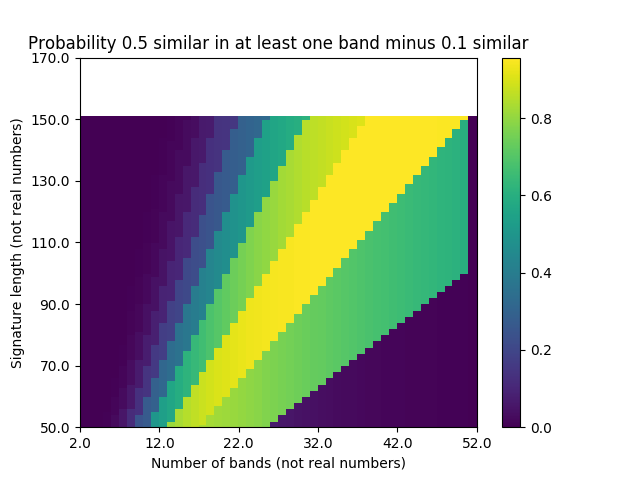
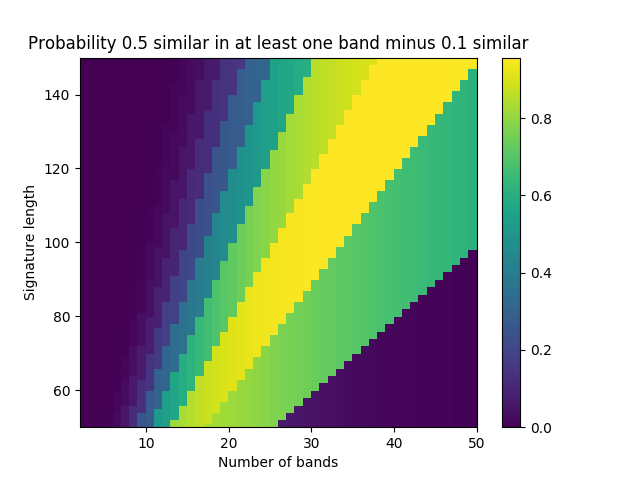
fixed colormesh showing right axes

diff --git a/assignment3/statistics.py b/assignment3/statistics.py
@@ -40,7 +40,7 @@ print ('Probability U1, U2 are identical in AT LEAST two bands')
 print (users_identical_in_ATLEAST_two_bands(similarity,signature_length,num_bands))
 
 
-def calc_probabilities(similarity1, similarity2):
+def calc_probabilities_minus(similarity1, similarity2):
 	
 	assert similarity1 > similarity2
 
@@ -57,26 +57,75 @@ def calc_probabilities(similarity1, similarity2):
 
 	return probabilities1, probabilities2
 
-probabilities1, probabilities2 = calc_probabilities(0.5,0.1)
+def calc_minus_probabilities():
+	# Calculates (the prob we find U1,U2 in at least 1(and 2) bands 
+	# as function of signature length and number of bands
+	# assuming U1,U2 are 50 percent similar)
+	# minus ( the prob we find U1,U2 in at least 1(and 2) bands 
+	# as function of signature length and number of bands
+	# assuming U1,U2 are 10 percent similar))
 
-plt.pcolor(probabilities1)
-plt.title('Probability 0.5 similar in at least one band minus 0.1 similar')
-plt.colorbar()
-plt.xlabel('Number of bands (not real numbers)')
-plt.ylabel('Signature length (not real numbers)')
-plt.xticks(plt.xticks()[0],plt.xticks()[0]+2)
-plt.yticks(plt.yticks()[0],plt.yticks()[0]+50)
-plt.savefig('./probabilities1_05minus01')
-plt.show()
-plt.close()
+	probabilities1, probabilities2 = calc_probabilities_minus(0.5,0.1)
 
-plt.pcolor(probabilities2)
-plt.title('Probability similar in at least two band')
-plt.colorbar()
-plt.xlabel('Number of bands (not real numbers)')
-plt.ylabel('Signature length (not real numbers)')
-plt.xticks(plt.xticks()[0],plt.xticks()[0]+2)
-plt.yticks(plt.yticks()[0],plt.yticks()[0]+50)
-plt.savefig('./probabilities2_05minus01')
-plt.show()
-plt.close()
+	x = range(2,51)
+	y = range(50,151)
+	# x and y are bounds, so z should be the value *inside* those bounds.
+	# Therefore, remove the last value from the z array.
+	plt.pcolor(x, y, probabilities1[:-1,:-1])
+	plt.title('Probability 0.5 similar in at least one band minus 0.1 similar')
+	plt.colorbar()
+	plt.xlabel('Number of bands')
+	plt.ylabel('Signature length')
+	plt.savefig('./probabilities1_05minus01')
+	plt.show()
+	plt.close()
+
+	plt.pcolor(x, y, probabilities2[:-1,:-1])
+	plt.title('Probability similar in at least two band')
+	plt.colorbar()
+	plt.xlabel('Number of bands (not real numbers)')
+	plt.ylabel('Signature length (not real numbers)')
+	plt.savefig('./probabilities2_05minus01')
+	plt.show()
+	plt.close()
+
+calc_minus_probabilities()
+
+def calc_probabilities():	
+	# Calculates (the prob we find U1,U2 in at least 1(and 2) bands 
+	# as function of signature length and number of bands
+	# assuming U1,U2 are 50 percent similar)
+
+	probabilities1 = np.empty((101,50))
+	probabilities2 = np.empty((101,50))
+	similarity = 0.5
+
+	for i, signature_length in enumerate(range(50,151)):
+		for j, num_bands in enumerate(range(2,51)):
+			probabilities1[i,j] = users_identical_in_ATLEAST_one_band(similarity,signature_length,num_bands)
+			probabilities2[i,j] = users_identical_in_ATLEAST_two_bands(similarity,signature_length,num_bands)
+
+	x = range(2,51)
+	y = range(50,151)
+	# x and y are bounds, so z should be the value *inside* those bounds.
+	# Therefore, remove the last value from the z array.
+	plt.pcolor(x, y, probabilities1[:-1,:-1])
+	plt.title('Probability 0.5 similar in at least one band')
+	plt.colorbar()
+	plt.xlabel('Number of bands')
+	plt.ylabel('Signature length')
+	plt.savefig('./probabilities1_05')
+	plt.show()
+	plt.close()
+
+	plt.pcolor(x, y, probabilities2[:-1,:-1])
+	plt.title('Probability 0.5 similar in at least two band')
+	plt.colorbar()
+	plt.xlabel('Number of bands')
+	plt.ylabel('Signature length')
+	plt.savefig('./probabilities2_05')
+	plt.show()
+	plt.close()
+	
+calc_probabilities()
+

diff --git a/assignment3/assignment3.py b/assignment3/assignment3.py
@@ -128,7 +128,7 @@ def check_buckets(list_of_buckets, user_dict, sharing_buckets):
 			# maar dat doen we nu niet.
 	return overlap_users
 
-overlap_users = check_buckets(list_of_buckets, user_dict, sharing_buckets=2) 
+overlap_users = check_buckets(list_of_buckets, user_dict, sharing_buckets=1) 
 
 def calculate_similarity(overlap_users, X):
 	# for the probable similar users, calculate the Jaccard Similarity
